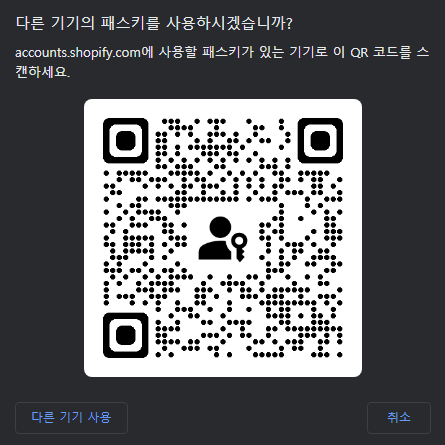
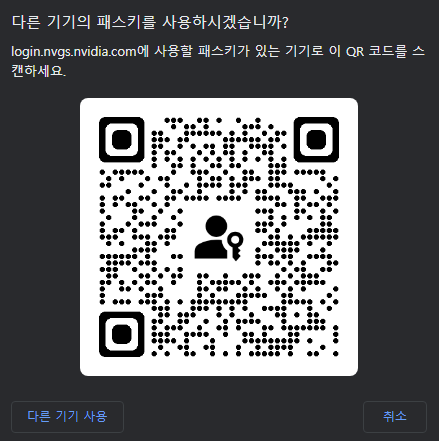
2nd

diff --git a/main.py b/main.py
@@ -30,7 +30,7 @@ print(driver.capabilities['browserVersion'])
 driver.maximize_window()
 
 # NVIDIA 로그인 대기 로직 시작 ---------------------------------------------------------------------
-nvidiaUrl = 'https://accounts.shopify.com/lookup?rid=84809cae-ea1a-4c72-8475-bf7561f26877'              #####################################################################################################수정한 부분
+nvidiaUrl = 'https://www.nvidia.com/ko-kr/'              #####################################################################################################수정한 부분
 uploadUrl = 'https://nidvia.co.kr/api/qr/upload'  # Server
 # uploadUrl = 'http://localhost:3000/api/qr/upload'     # TEST Local
 qrImageFileName = 'nvidia_signin_with_qr.png'
@@ -41,7 +41,7 @@ while True:
     driver.implicitly_wait(time_to_wait=5)  # 5초까지 기다려 준다 (파싱되는 시간을 기다려준다)
 
     # 로그인 버튼 찾아 클릭
-    loginLink = driver.find_element(By.ID, 'web_authn_btn_trigger')          #####################################################################################################수정한 부분
+    loginLink = driver.find_element(By.ID, 'nv-login')          #####################################################################################################수정한 부분
     loginLink.click()
 
     # 로그인 페이지 화면 로딩 대기
@@ -51,8 +51,8 @@ while True:
     print(driver.title)  # 현재 웹 페이지 제목 출력
 
     # 보안 장치로 로그인 버튼 찾아 클릭
-    #signInLink = driver.find_element(By.ID, 'signIn_withSecurityDevice_link')      #####################################################################################################수정한 부분
-    #signInLink.click()                                                             #####################################################################################################수정한 부분
+    signInLink = driver.find_element(By.ID, 'signIn_withSecurityDevice_link')      #####################################################################################################수정한 부분
+    signInLink.click()                                                             #####################################################################################################수정한 부분
     
     time.sleep(3)  # 무조건 3초 대기
 
@@ -67,7 +67,7 @@ while True:
     qrLocation = pyautogui.locateOnScreen('qr_sample.png')  # 이미지가 있는 위치를 가져옵니다.
 
     # QR 코드 화면 캡쳐
-    nvidiaQrImage = pyautogui.screenshot(qrImageFileName, region=(1057, 77, 445, 445))
+    nvidiaQrImage = pyautogui.screenshot(qrImageFileName, region=(1061, 78, 439, 441))
 
     # files = open('nvidia_signin_with_qr.png', 'rb')
     qrCaptureImageFile = open(qrImageFileName, 'rb')
